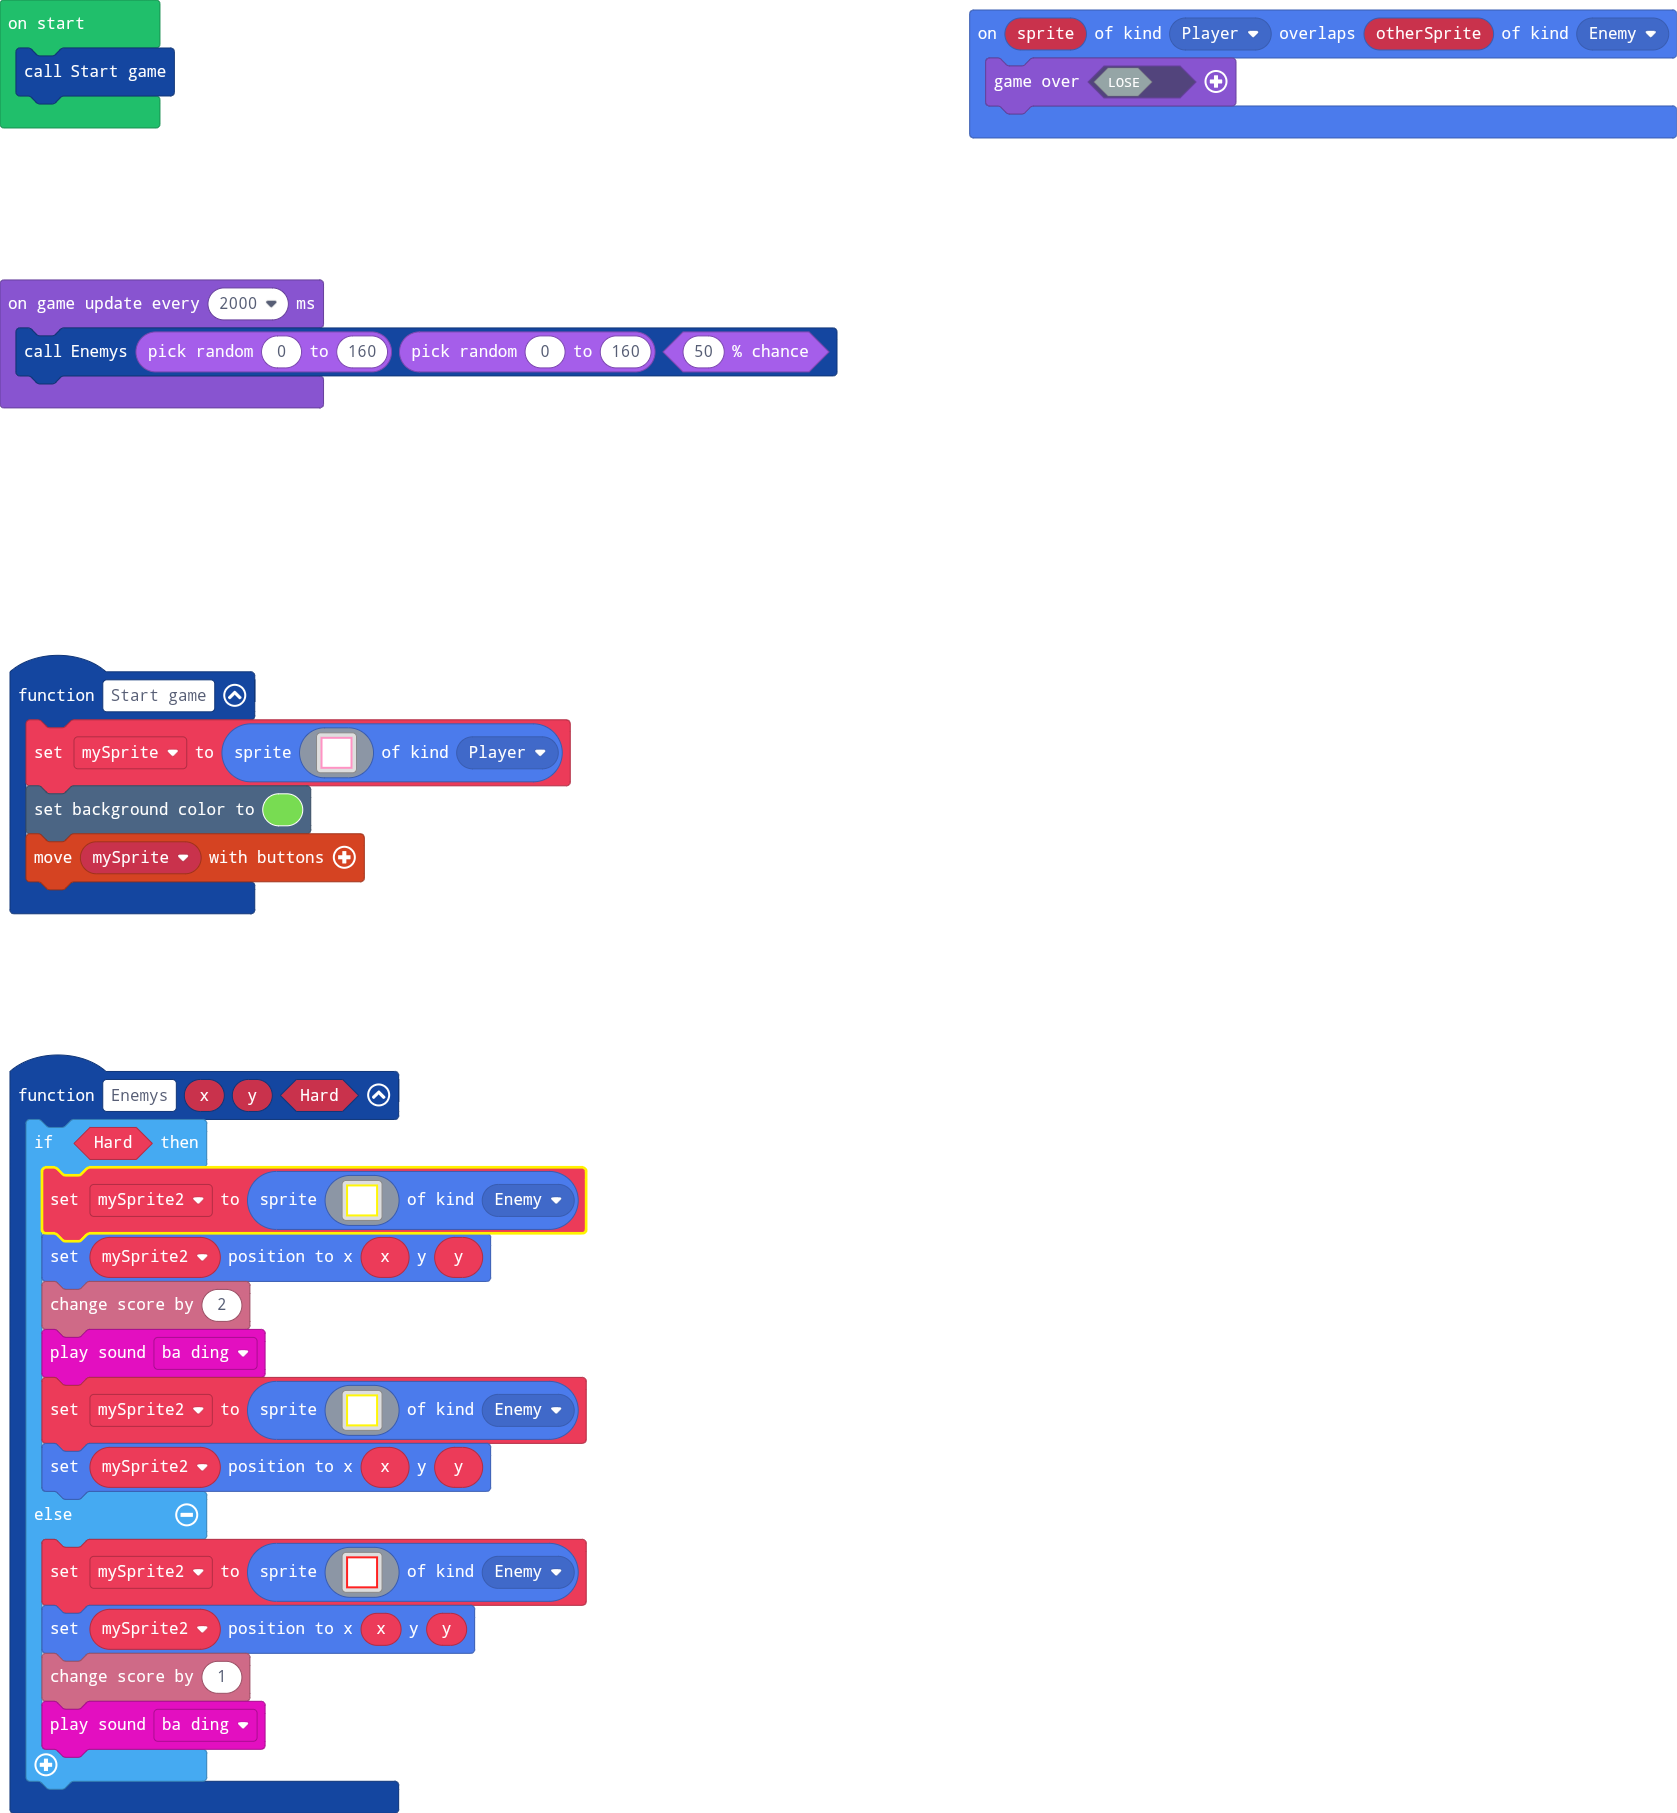
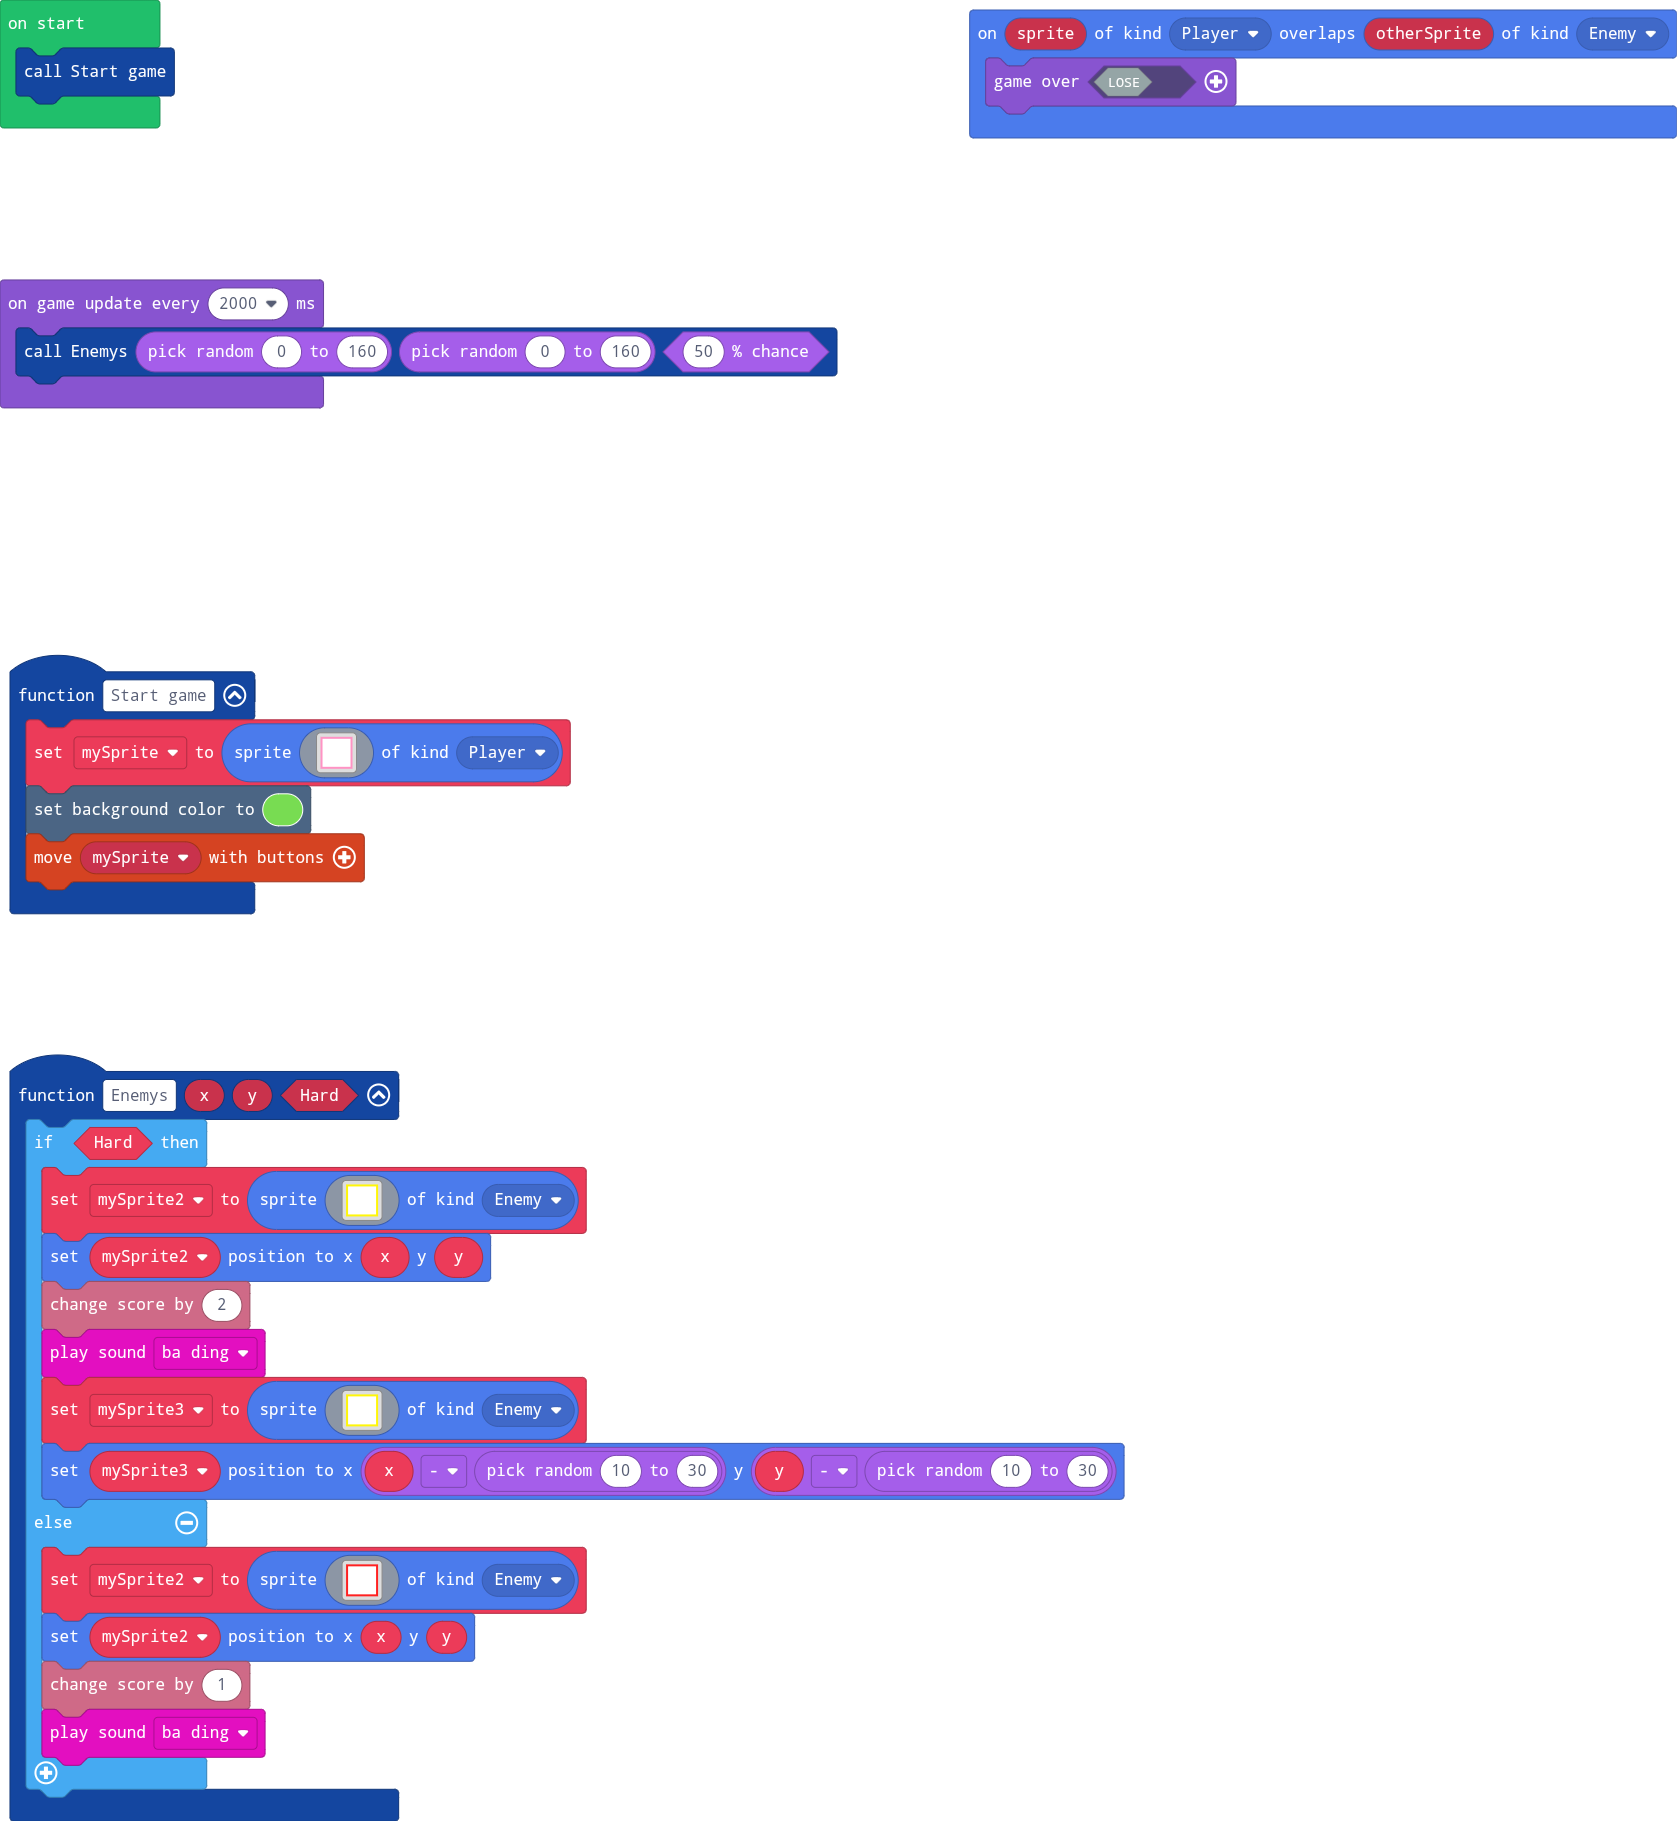
Update main.blocks, main.ts

Changed region(s): [[0.0, 0.556, 0.6822, 0.9575], [0.0, 0.3707, 0.3411, 0.4942], [0.0, 0.1544, 0.4961, 0.2162]]

diff --git a/main.ts b/main.ts
@@ -43,7 +43,7 @@ function Enemys (x: number, y: number, Hard: boolean) {
         mySprite2.setPosition(x, y)
         info.changeScoreBy(2)
         music.baDing.play()
-        mySprite2 = sprites.create(img`
+        mySprite3 = sprites.create(img`
             5 5 5 5 5 5 5 5 5 5 5 5 5 5 5 5 
             5 1 1 1 1 1 1 1 1 1 1 1 1 1 1 5 
             5 1 1 1 1 1 1 1 1 1 1 1 1 1 1 5 
@@ -61,7 +61,7 @@ function Enemys (x: number, y: number, Hard: boolean) {
             5 1 1 1 1 1 1 1 1 1 1 1 1 1 1 5 
             5 5 5 5 5 5 5 5 5 5 5 5 5 5 5 5 
             `, SpriteKind.Enemy)
-        mySprite2.setPosition(x, y)
+        mySprite3.setPosition(x - randint(10, 30), y - randint(10, 30))
     } else {
         mySprite2 = sprites.create(img`
             2 2 2 2 2 2 2 2 2 2 2 2 2 2 2 2 
@@ -89,6 +89,7 @@ function Enemys (x: number, y: number, Hard: boolean) {
 sprites.onOverlap(SpriteKind.Player, SpriteKind.Enemy, function (sprite, otherSprite) {
     game.over(false)
 })
+let mySprite3: Sprite = null
 let mySprite2: Sprite = null
 let mySprite: Sprite = null
 Start_game()
